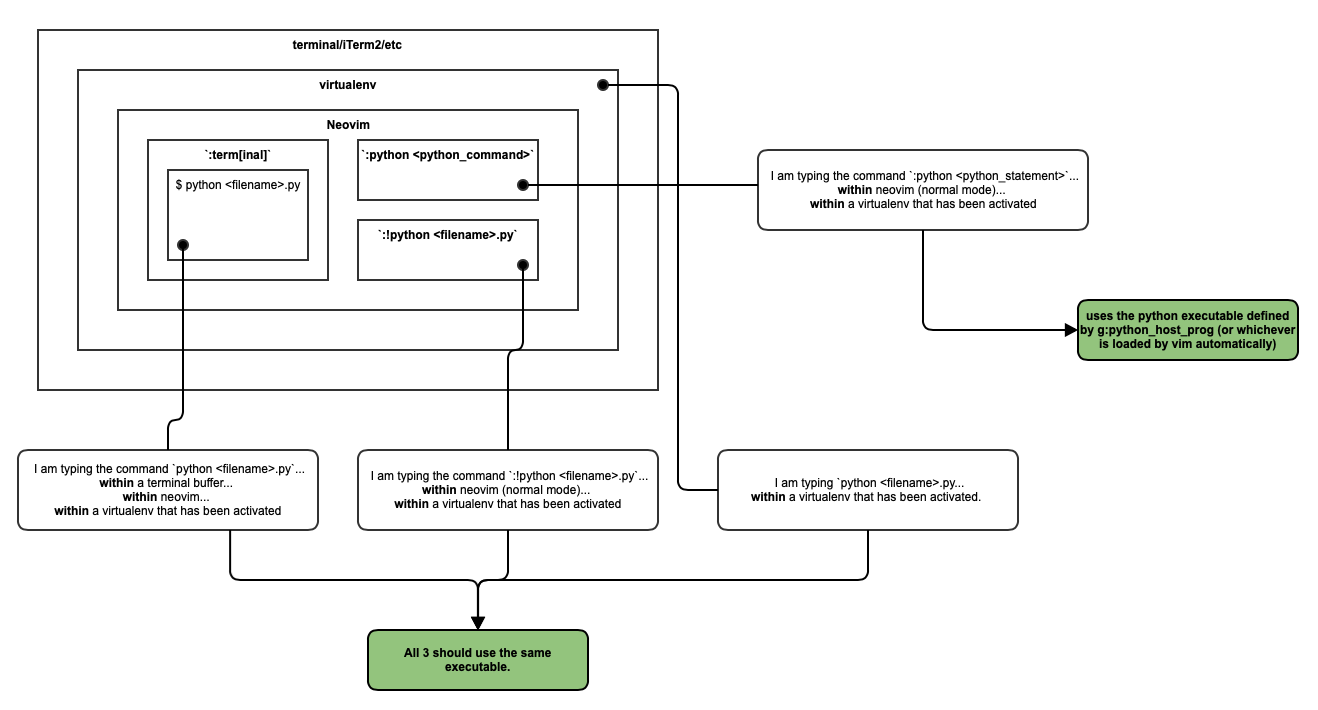
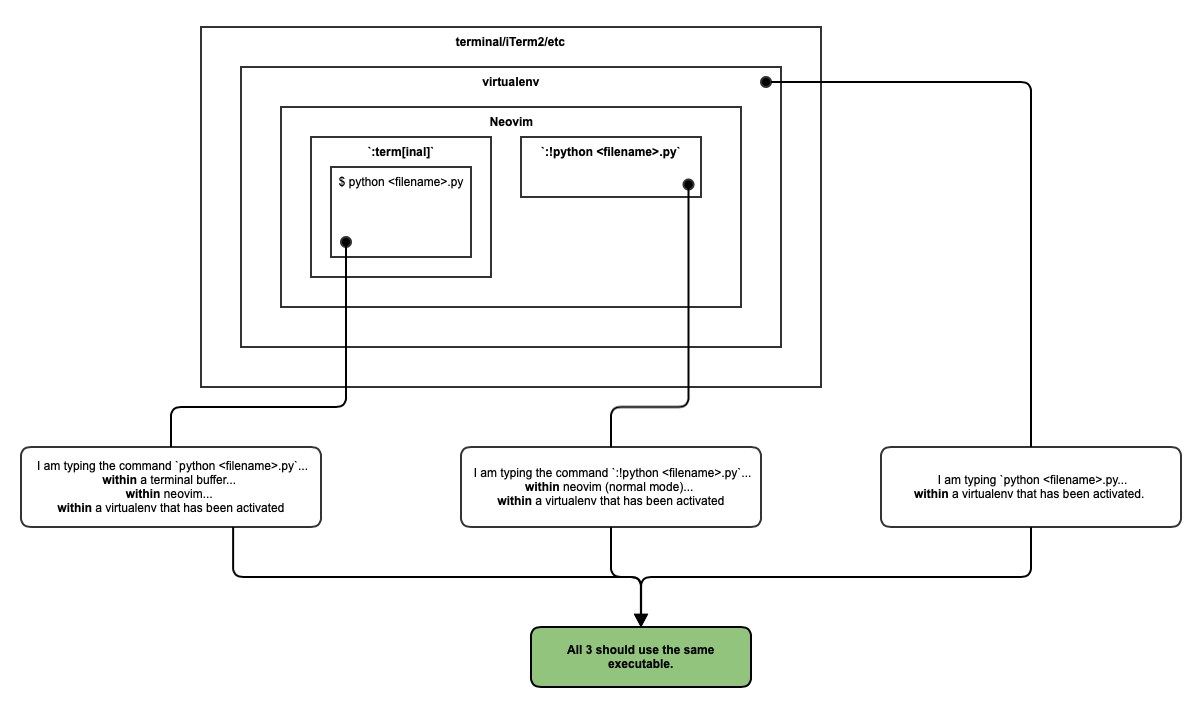
update neovim_python_virtualenv_understanding doc

diff --git a/neovim_python_virtualenv.md b/neovim_python_virtualenv.md
@@ -1,19 +1,16 @@
-![](images/neovim_python_virtualenv_understanding.png)
-
-
 # Some Context
 
-It is June 2021. Python 2 has been deprecated or over a year. I am personally  **never** in a position where I want to
-call the python2 executable from the command line.
+It is June 2021. Python 2 has been officially deprecated for over a year. I am personally  **never** in a position where
+I want to call the python2 executable.
 
 # How do I work with Python, Neovim and Virtual Environments?
 
 If I am working in a `virtualenv`, I start the `virtualenv` from the shell **and then open Neovim.** I am **never** in a
-position where I activate a `virtualenv` from within Neovim.
+position where I activate or change a `virtualenv` from within Neovim.
 
 # What do I want?
 
-1. From the shell (`/bin/bash`) (i.e. **NOT** within Neovim):
+1. From the shell (`/bin/bash` for me) (i.e. **NOT** within Neovim):
 	* If a `virtualenv` is **not** activated, both `python` and `python3` should point to the python executable.
 	* If a `virtualenv` is activated, both `python` and `python3` should point to the python executable defined by the
 	  `virtualenv`.
@@ -22,21 +19,31 @@ position where I activate a `virtualenv` from within Neovim.
 
 2. From within Neovim:
 	* `:!python <python_script>` and `:!python3 <python_script>` should use the same python executable.
-	* `python <python_command>` and `python3 <python_command>` should use the same python executable.
 	* From within a `:terminal` within Neovim:
 		* `python <python_script>` and `python3 <python_script>` should both execute `<python_script>` with the same executable.
 		* `python` and `python3` should both start a REPL using the same python executable.
+Below is a diagram of what I want:
 
+![](images/neovim_python_virtualenv_understanding.png)
 
-# Thoughts
+# How do I get what do I want?
 
-* When a `virtualenv` is activated, the shell adds the path to the python executable to the **front** of $PATH.
-* In `:terminal` within vim, `echo $PATH` shows that the path to the python executable is at the **end** of $PATH.
-* Where does `shell` in neovim get the $PATH from?
+1. Put the below in `init.vim`:
 
+```
+let &shell='/bin/bash --login'
+```
 
-# What happens when you `source` the `activate` file in a `virtualenv` directory?
+What does this do?
+* Makes the `:term[inal]` neovim command read `~/.bash_profile` when a terminal buffer is started.
 
+2. Put the below in `~/.bash_profile`:
 
-* `source <file>` runs the commands in `<file>` in the *current* shell (i.e. as if you typed them in yourself).
-*
+```
+if [[ -n $VIRTUAL_ENV && -e "${VIRTUAL_ENV}/bin/activate" ]]; then
+  source "${VIRTUAL_ENV}/bin/activate"
+fi
+```
+
+What does this do?
+* (In combination with #1) Activates the `$VIRTUAL_ENV` that was present when `nvim` was started.
